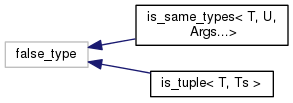
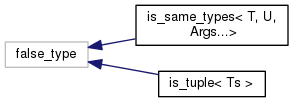
Deploy tatyana-otus/print_ip to github.com/tatyana-otus/print_ip.git:gh-pages

Changed region(s): [[0.4915, 0.6699, 0.9522, 0.9612]]

diff --git a/structis__tuple.html b/structis__tuple.html
@@ -4,7 +4,7 @@
 <meta http-equiv="Content-Type" content="text/xhtml;charset=UTF-8"/>
 <meta http-equiv="X-UA-Compatible" content="IE=9"/>
 <meta name="generator" content="Doxygen 1.8.6"/>
-<title>Print IP: is_tuple&lt; T, Ts &gt; Struct Template Reference</title>
+<title>Print IP: is_tuple&lt; Ts &gt; Struct Template Reference</title>
 <link href="tabs.css" rel="stylesheet" type="text/css"/>
 <script type="text/javascript" src="jquery.js"></script>
 <script type="text/javascript" src="dynsections.js"></script>
@@ -83,28 +83,28 @@ var searchBox = new SearchBox("searchBox", "search",false,'Search');
 </div><!-- top -->
 <div class="header">
   <div class="headertitle">
-<div class="title">is_tuple&lt; T, Ts &gt; Struct Template Reference</div>  </div>
+<div class="title">is_tuple&lt; Ts &gt; Struct Template Reference</div>  </div>
 </div><!--header-->
 <div class="contents">
 
 <p><code>#include &lt;<a class="el" href="print__tuple_8h_source.html">print_tuple.h</a>&gt;</code></p>
 <div class="dynheader">
-Inheritance diagram for is_tuple&lt; T, Ts &gt;:</div>
+Inheritance diagram for is_tuple&lt; Ts &gt;:</div>
 <div class="dyncontent">
-<div class="center"><img src="structis__tuple__inherit__graph.png" border="0" usemap="#is__tuple_3_01T_00_01Ts_01_4_inherit__map" alt="Inheritance graph"/></div>
-<map name="is__tuple_3_01T_00_01Ts_01_4_inherit__map" id="is__tuple_3_01T_00_01Ts_01_4_inherit__map">
+<div class="center"><img src="structis__tuple__inherit__graph.png" border="0" usemap="#is__tuple_3_01Ts_01_4_inherit__map" alt="Inheritance graph"/></div>
+<map name="is__tuple_3_01Ts_01_4_inherit__map" id="is__tuple_3_01Ts_01_4_inherit__map">
 </map>
 <center><span class="legend">[<a href="graph_legend.html">legend</a>]</span></center></div>
 <div class="dynheader">
-Collaboration diagram for is_tuple&lt; T, Ts &gt;:</div>
+Collaboration diagram for is_tuple&lt; Ts &gt;:</div>
 <div class="dyncontent">
-<div class="center"><img src="structis__tuple__coll__graph.png" border="0" usemap="#is__tuple_3_01T_00_01Ts_01_4_coll__map" alt="Collaboration graph"/></div>
-<map name="is__tuple_3_01T_00_01Ts_01_4_coll__map" id="is__tuple_3_01T_00_01Ts_01_4_coll__map">
+<div class="center"><img src="structis__tuple__coll__graph.png" border="0" usemap="#is__tuple_3_01Ts_01_4_coll__map" alt="Collaboration graph"/></div>
+<map name="is__tuple_3_01Ts_01_4_coll__map" id="is__tuple_3_01Ts_01_4_coll__map">
 </map>
 <center><span class="legend">[<a href="graph_legend.html">legend</a>]</span></center></div>
 <a name="details" id="details"></a><h2 class="groupheader">Detailed Description</h2>
-<div class="textblock"><h3>template&lt;typename T, typename... Ts&gt;<br/>
-struct is_tuple&lt; T, Ts &gt;</h3>
+<div class="textblock"><h3>template&lt;typename... Ts&gt;<br/>
+struct is_tuple&lt; Ts &gt;</h3>
 
 <p>Используется для всех типов кроме std::tuple и возвращает value = false </p>
 </div><hr/>The documentation for this struct was generated from the following file:<ul>

diff --git a/hierarchy.html b/hierarchy.html
@@ -92,7 +92,7 @@ This inheritance list is sorted roughly, but not completely, alphabetically:</di
 <div class="levels">[detail level <span onclick="javascript:toggleLevel(1);">1</span><span onclick="javascript:toggleLevel(2);">2</span><span onclick="javascript:toggleLevel(3);">3</span>]</div><table class="directory">
 <tr id="row_0_" class="even"><td class="entry"><img id="arr_0_" src="ftv2mnode.png" alt="o" width="16" height="22" onclick="toggleFolder('0_')"/><img src="ftv2cl.png" alt="C" width="24" height="22" /><b>false_type</b></td><td class="desc"></td></tr>
 <tr id="row_0_0_"><td class="entry"><img src="ftv2vertline.png" alt="|" width="16" height="22" /><img src="ftv2node.png" alt="o" width="16" height="22" /><img src="ftv2cl.png" alt="C" width="24" height="22" /><a class="el" href="structis__same__types_3_01T_00_01U_00_01Args_8_8_8_4.html" target="_self">is_same_types&lt; T, U, Args...&gt;</a></td><td class="desc"></td></tr>
-<tr id="row_0_1_" class="even"><td class="entry"><img src="ftv2vertline.png" alt="|" width="16" height="22" /><img src="ftv2lastnode.png" alt="\" width="16" height="22" /><img src="ftv2cl.png" alt="C" width="24" height="22" /><a class="el" href="structis__tuple.html" target="_self">is_tuple&lt; T, Ts &gt;</a></td><td class="desc"></td></tr>
+<tr id="row_0_1_" class="even"><td class="entry"><img src="ftv2vertline.png" alt="|" width="16" height="22" /><img src="ftv2lastnode.png" alt="\" width="16" height="22" /><img src="ftv2cl.png" alt="C" width="24" height="22" /><a class="el" href="structis__tuple.html" target="_self">is_tuple&lt; Ts &gt;</a></td><td class="desc"></td></tr>
 <tr id="row_1_"><td class="entry"><img id="arr_1_" src="ftv2mnode.png" alt="o" width="16" height="22" onclick="toggleFolder('1_')"/><img src="ftv2cl.png" alt="C" width="24" height="22" /><b>true_type</b></td><td class="desc"></td></tr>
 <tr id="row_1_0_" class="even"><td class="entry"><img src="ftv2vertline.png" alt="|" width="16" height="22" /><img src="ftv2node.png" alt="o" width="16" height="22" /><img src="ftv2cl.png" alt="C" width="24" height="22" /><a class="el" href="structis__same__types.html" target="_self">is_same_types&lt; Args &gt;</a></td><td class="desc"></td></tr>
 <tr id="row_1_1_"><td class="entry"><img src="ftv2vertline.png" alt="|" width="16" height="22" /><img id="arr_1_1_" src="ftv2mnode.png" alt="o" width="16" height="22" onclick="toggleFolder('1_1_')"/><img src="ftv2cl.png" alt="C" width="24" height="22" /><a class="el" href="structis__same__types.html" target="_self">is_same_types&lt; T, Args...&gt;</a></td><td class="desc"></td></tr>

diff --git a/version_8h.html b/version_8h.html
@@ -104,7 +104,7 @@ This graph shows which files directly or indirectly include this file:</div>
 Macros</h2></td></tr>
 <tr class="memitem:abecd2198575b690d25a741857f8390d1"><td class="memItemLeft" align="right" valign="top">#define&#160;</td><td class="memItemRight" valign="bottom"><a class="el" href="version_8h.html#abecd2198575b690d25a741857f8390d1">PROJECT_VERSION_MAJOR</a>&#160;&#160;&#160;1</td></tr>
 <tr class="separator:abecd2198575b690d25a741857f8390d1"><td class="memSeparator" colspan="2">&#160;</td></tr>
-<tr class="memitem:a4a5fc96a4bdd7d68ed99ccce9ca2e77e"><td class="memItemLeft" align="right" valign="top">#define&#160;</td><td class="memItemRight" valign="bottom"><a class="el" href="version_8h.html#a4a5fc96a4bdd7d68ed99ccce9ca2e77e">PROJECT_VERSION_PATCH</a>&#160;&#160;&#160;12</td></tr>
+<tr class="memitem:a4a5fc96a4bdd7d68ed99ccce9ca2e77e"><td class="memItemLeft" align="right" valign="top">#define&#160;</td><td class="memItemRight" valign="bottom"><a class="el" href="version_8h.html#a4a5fc96a4bdd7d68ed99ccce9ca2e77e">PROJECT_VERSION_PATCH</a>&#160;&#160;&#160;13</td></tr>
 <tr class="separator:a4a5fc96a4bdd7d68ed99ccce9ca2e77e"><td class="memSeparator" colspan="2">&#160;</td></tr>
 </table>
 <h2 class="groupheader">Macro Definition Documentation</h2>
@@ -125,7 +125,7 @@ Macros</h2></td></tr>
 <div class="memproto">
       <table class="memname">
         <tr>
-          <td class="memname">#define PROJECT_VERSION_PATCH&#160;&#160;&#160;12</td>
+          <td class="memname">#define PROJECT_VERSION_PATCH&#160;&#160;&#160;13</td>
         </tr>
       </table>
 </div><div class="memdoc">

diff --git a/print__tuple_8h_source.html b/print__tuple_8h_source.html
@@ -107,7 +107,7 @@ var searchBox = new SearchBox("searchBox", "search",false,'Search');
 <div class="line"><a name="l00021"></a><span class="lineno"><a class="line" href="structis__same__types_3_01T_00_01U_00_01Args_8_8_8_4.html">   21</a></span>&#160;<span class="keyword">struct </span><a class="code" href="structis__same__types.html">is_same_types</a>&lt;T, U, Args...&gt; : std::false_type{};</div>
 <div class="line"><a name="l00022"></a><span class="lineno">   22</span>&#160; </div>
 <div class="line"><a name="l00023"></a><span class="lineno">   23</span>&#160;</div>
-<div class="line"><a name="l00028"></a><span class="lineno">   28</span>&#160;<span class="keyword">template</span> &lt;<span class="keyword">typename</span> T, <span class="keyword">typename</span>... Ts&gt;</div>
+<div class="line"><a name="l00028"></a><span class="lineno">   28</span>&#160;<span class="keyword">template</span> &lt;<span class="keyword">typename</span>... Ts&gt;</div>
 <div class="line"><a name="l00029"></a><span class="lineno"><a class="line" href="structis__tuple.html">   29</a></span>&#160;<span class="keyword">struct </span><a class="code" href="structis__tuple.html">is_tuple</a> : std::false_type {};</div>
 <div class="line"><a name="l00030"></a><span class="lineno">   30</span>&#160;</div>
 <div class="line"><a name="l00035"></a><span class="lineno">   35</span>&#160;<span class="keyword">template</span> &lt;<span class="keyword">typename</span>... Ts&gt; </div>

diff --git a/print__tuple_8h.html b/print__tuple_8h.html
@@ -119,7 +119,7 @@ Classes</h2></td></tr>
 <tr class="separator:"><td class="memSeparator" colspan="2">&#160;</td></tr>
 <tr class="memitem:"><td class="memItemLeft" align="right" valign="top">struct &#160;</td><td class="memItemRight" valign="bottom"><a class="el" href="structis__same__types_3_01T_00_01U_00_01Args_8_8_8_4.html">is_same_types&lt; T, U, Args...&gt;</a></td></tr>
 <tr class="separator:"><td class="memSeparator" colspan="2">&#160;</td></tr>
-<tr class="memitem:"><td class="memItemLeft" align="right" valign="top">struct &#160;</td><td class="memItemRight" valign="bottom"><a class="el" href="structis__tuple.html">is_tuple&lt; T, Ts &gt;</a></td></tr>
+<tr class="memitem:"><td class="memItemLeft" align="right" valign="top">struct &#160;</td><td class="memItemRight" valign="bottom"><a class="el" href="structis__tuple.html">is_tuple&lt; Ts &gt;</a></td></tr>
 <tr class="separator:"><td class="memSeparator" colspan="2">&#160;</td></tr>
 <tr class="memitem:"><td class="memItemLeft" align="right" valign="top">struct &#160;</td><td class="memItemRight" valign="bottom"><a class="el" href="structis__tuple_3_01std_1_1tuple_3_01Ts_8_8_8_01_4_01_4.html">is_tuple&lt; std::tuple&lt; Ts... &gt; &gt;</a></td></tr>
 <tr class="separator:"><td class="memSeparator" colspan="2">&#160;</td></tr>

diff --git a/version_8h_source.html b/version_8h_source.html
@@ -92,7 +92,7 @@ var searchBox = new SearchBox("searchBox", "search",false,'Search');
 <div class="line"><a name="l00002"></a><span class="lineno">    2</span>&#160;<span class="preprocessor"></span></div>
 <div class="line"><a name="l00003"></a><span class="lineno"><a class="line" href="version_8h.html#abecd2198575b690d25a741857f8390d1">    3</a></span>&#160;<span class="preprocessor">#define PROJECT_VERSION_MAJOR 1</span></div>
 <div class="line"><a name="l00004"></a><span class="lineno">    4</span>&#160;<span class="preprocessor"></span><span class="comment">/* #undef PROJECT_VERSION_MINOR */</span></div>
-<div class="line"><a name="l00005"></a><span class="lineno"><a class="line" href="version_8h.html#a4a5fc96a4bdd7d68ed99ccce9ca2e77e">    5</a></span>&#160;<span class="preprocessor">#define PROJECT_VERSION_PATCH 12</span></div>
+<div class="line"><a name="l00005"></a><span class="lineno"><a class="line" href="version_8h.html#a4a5fc96a4bdd7d68ed99ccce9ca2e77e">    5</a></span>&#160;<span class="preprocessor">#define PROJECT_VERSION_PATCH 13</span></div>
 </div><!-- fragment --></div><!-- contents -->
 <!-- start footer part -->
 <hr class="footer"/><address class="footer"><small>

diff --git a/inherits.html b/inherits.html
@@ -95,7 +95,7 @@ var searchBox = new SearchBox("searchBox", "search",false,'Search');
 </td></tr>
 <tr><td><img src="inherit_graph_1.png" border="0" alt="" usemap="#is__same__types_3_01T_00_01U_00_01Args_8_8_8_4"/>
 <map name="is__same__types_3_01T_00_01U_00_01Args_8_8_8_4" id="is__same__types_3_01T_00_01U_00_01Args_8_8_8_4">
-<area shape="rect" id="node2" href="structis__same__types_3_01T_00_01U_00_01Args_8_8_8_4.html" title="is_same_types\&lt; T, U,\l Args...\&gt;" alt="" coords="136,5,288,46"/><area shape="rect" id="node3" href="structis__tuple.html" title="is_tuple\&lt; T, Ts \&gt;" alt="" coords="151,71,273,97"/></map>
+<area shape="rect" id="node2" href="structis__same__types_3_01T_00_01U_00_01Args_8_8_8_4.html" title="is_same_types\&lt; T, U,\l Args...\&gt;" alt="" coords="136,5,288,46"/><area shape="rect" id="node3" href="structis__tuple.html" title="is_tuple\&lt; Ts \&gt;" alt="" coords="159,71,265,97"/></map>
 </td></tr>
 <tr><td><img src="inherit_graph_2.png" border="0" alt="" usemap="#tuple__p_3_01T_00_010_01_4"/>
 <map name="tuple__p_3_01T_00_010_01_4" id="tuple__p_3_01T_00_010_01_4">
